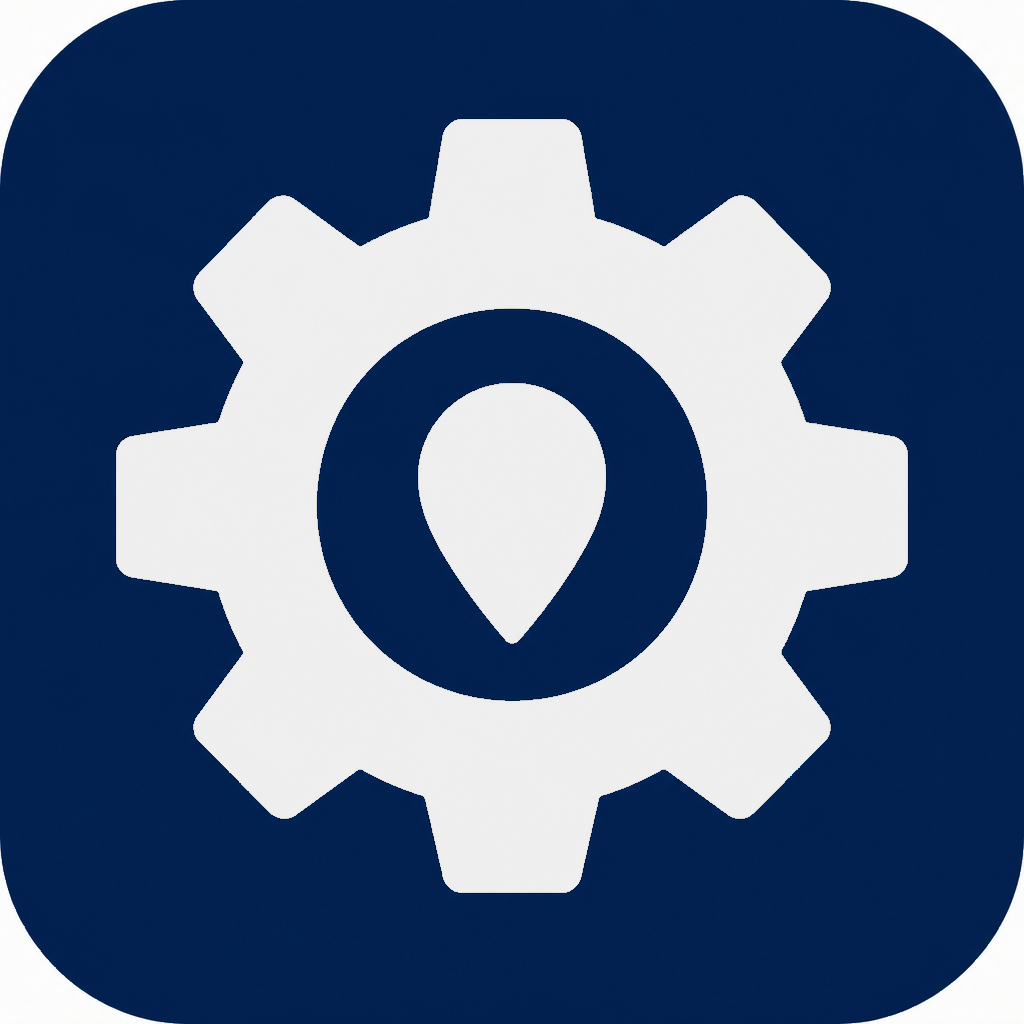
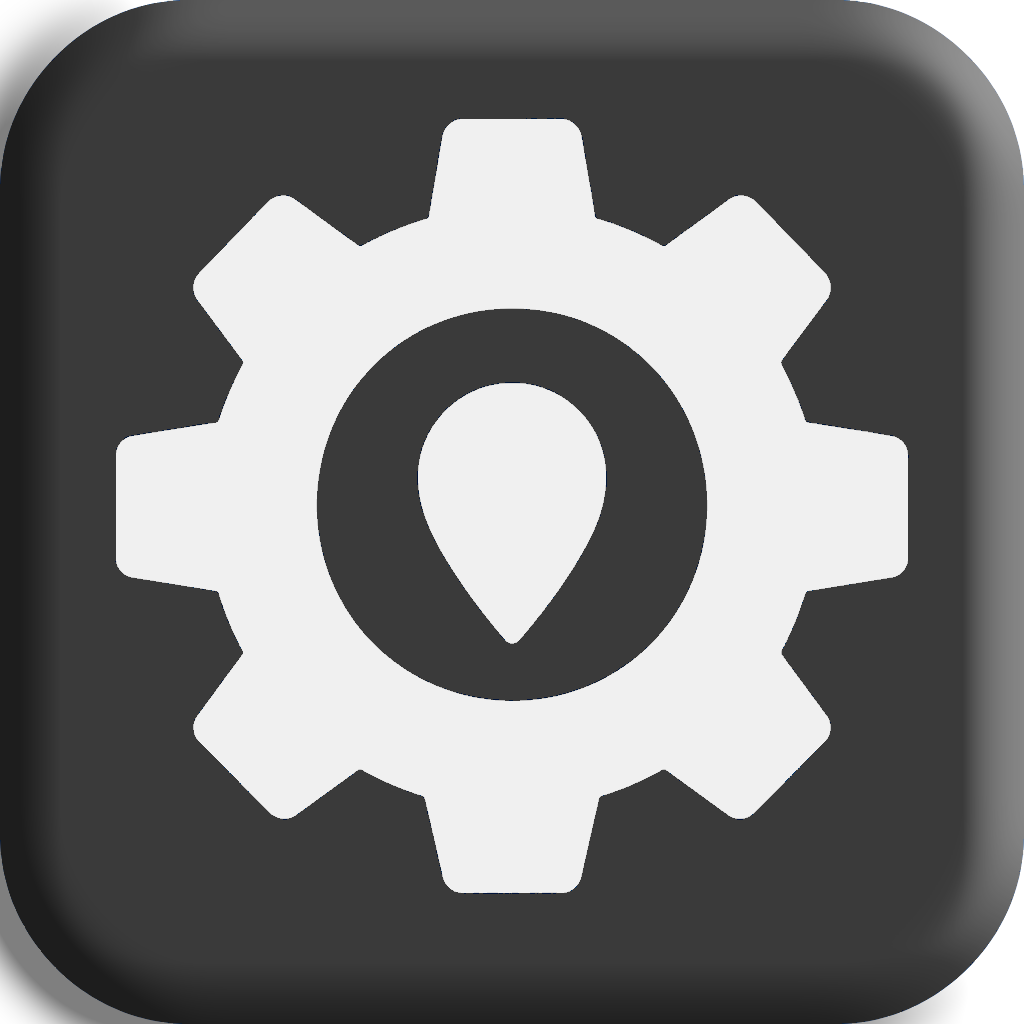
Added map layers button and dist/heading buttons.

diff --git a/sat_planner/app_core.py b/sat_planner/app_core.py
@@ -751,22 +751,22 @@ class SurveyPlanApp(BasemapMixin, GeoTIFFMixin, PlottingMixin, ReferenceMixin, S
         icon_size = self._map_overlay_icon_size
         btn_style = "QPushButton { border: none; background: transparent; padding: 0px; }"
 
-        map_options_off = self._media_path("options_off.png")
-        map_options_on = self._media_path("options_on.png")
-        self._map_options_icon_off = QIcon(map_options_off) if os.path.exists(map_options_off) else QIcon()
-        self._map_options_icon_on = QIcon(map_options_on) if os.path.exists(map_options_on) else QIcon()
+        map_options_off = self._media_path("layers_t_off.png")
+        map_options_on = self._media_path("layers_t_on.png")
+        self._map_options_icon_off = QIcon(map_options_off) if os.path.exists(map_options_on) else QIcon()
+        self._map_options_icon_on = QIcon(map_options_on) if os.path.exists(map_options_off) else QIcon()
 
         self.map_options_btn = QPushButton(self.plot_frame)
         self.map_options_btn.setFlat(True)
         self.map_options_btn.setFixedSize(icon_size, icon_size)
         self.map_options_btn.setIconSize(QSize(icon_size, icon_size))
-        self.map_options_btn.setToolTip("Map Options")
+        self.map_options_btn.setToolTip("Layer Options")
         self.map_options_btn.setStyleSheet(btn_style)
         self.map_options_btn.clicked.connect(self._toggle_map_options_dialog)
         self._set_map_options_icon_active(False)
 
-        measure_off = self._media_path("dh_t_off.png")
-        measure_on = self._media_path("dh_t_on.png")
+        measure_off = self._media_path("dht_t_grey_off.png")
+        measure_on = self._media_path("dht_t_grey_on.png")
         self._measurement_icon_off = QIcon(measure_off) if os.path.exists(measure_off) else QIcon()
         self._measurement_icon_on = QIcon(measure_on) if os.path.exists(measure_on) else QIcon()
 
@@ -1156,9 +1156,15 @@ class SurveyPlanApp(BasemapMixin, GeoTIFFMixin, PlottingMixin, ReferenceMixin, S
         self.slope_overlay_min_entries = []
         self.slope_overlay_max_entries = []
         self.slope_overlay_color_btns = []
+        slope_range_tooltip = (
+            "Enter min and max slope in degrees. "
+            "Use '-' for min and/or max to leave this range undefined (it will not be shown)."
+        )
         for band_idx in range(len(DEFAULT_SLOPE_OVERLAY_BANDS)):
             min_entry = QLineEdit("-")
             max_entry = QLineEdit("-")
+            min_entry.setToolTip(slope_range_tooltip)
+            max_entry.setToolTip(slope_range_tooltip)
             color_btn = QPushButton("")
             color_btn.setFixedSize(22, 22)
             color_btn.setToolTip(f"Slope overlay range {band_idx + 1} color")

diff --git a/sat_planner/mixins/config_mixin.py b/sat_planner/mixins/config_mixin.py
@@ -529,13 +529,31 @@ class ConfigMixin:
                         self.slope_overlay_opacity = 40
             if hasattr(self, "_sync_slope_overlay_legacy_vars"):
                 self._sync_slope_overlay_legacy_vars()
-            if hasattr(self, "_sync_slope_overlay_opacity_widget"):
-                self._sync_slope_overlay_opacity_widget()
         except Exception:
             self.slope_overlay_bands = self._default_slope_overlay_bands()
             self.slope_overlay_opacity = 40
             if hasattr(self, "_sync_slope_overlay_legacy_vars"):
                 self._sync_slope_overlay_legacy_vars()
+        if hasattr(self, "_sync_slope_overlay_opacity_widget"):
+            self._sync_slope_overlay_opacity_widget()
+
+    def _save_slope_overlay_opacity(self):
+        """Persist slope overlay opacity to the session config file."""
+        try:
+            config = {}
+            if os.path.exists(self.CONFIG_FILENAME):
+                with open(self.CONFIG_FILENAME, "r") as f:
+                    config = json.load(f)
+            try:
+                opacity = max(0, min(100, int(getattr(self, "slope_overlay_opacity", 40))))
+            except (TypeError, ValueError):
+                opacity = 40
+            self.slope_overlay_opacity = opacity
+            config["slope_overlay_opacity"] = opacity
+            with open(self.CONFIG_FILENAME, "w") as f:
+                json.dump(config, f, indent=2)
+        except Exception:
+            pass
 
     def _save_slope_overlay_bands(self):
         try:
@@ -559,7 +577,8 @@ class ConfigMixin:
             with open(self.CONFIG_FILENAME, "w") as f:
                 json.dump(config, f, indent=2)
         except Exception:
-            pass
+            # Still try to persist opacity even if band save fails
+            self._save_slope_overlay_opacity()
 
     def _add_slope_overlay_bands_to_params(self, params):
         if isinstance(params, dict):

diff --git a/sat_planner/mixins/map_interaction_mixin.py b/sat_planner/mixins/map_interaction_mixin.py
@@ -6,6 +6,7 @@ import traceback
 
 import numpy as np
 from PyQt6.QtCore import Qt, QTimer
+from PyQt6.QtGui import QColor, QCursor, QPainter, QPen, QPixmap
 
 from sat_planner.constants import GEOSPATIAL_LIBS_AVAILABLE, pyproj, rowcol
 from sat_planner.utils_geo import decimal_degrees_to_ddm
@@ -142,6 +143,27 @@ class MapInteractionMixin:
             [start_lon, end_lon], [start_lat, end_lat], **line_kwargs
         )
 
+    def _measurement_cursor(self):
+        """Return a thick orange cross cursor centered on its hotspot."""
+        cursor = getattr(self, "_measurement_cross_cursor", None)
+        if cursor is not None:
+            return cursor
+
+        size = 32
+        center = size // 2
+        pixmap = QPixmap(size, size)
+        pixmap.fill(Qt.GlobalColor.transparent)
+
+        painter = QPainter(pixmap)
+        painter.setRenderHint(QPainter.RenderHint.Antialiasing, False)
+        painter.setPen(QPen(QColor(255, 165, 0), 3))
+        painter.drawLine(center, 2, center, size - 3)
+        painter.drawLine(2, center, size - 3, center)
+        painter.end()
+
+        self._measurement_cross_cursor = QCursor(pixmap, center, center)
+        return self._measurement_cross_cursor
+
     def _toggle_measurement_tool_mode(self):
         """Enable/disable interactive map measurement mode."""
         self.measurement_tool_mode = not bool(getattr(self, "measurement_tool_mode", False))
@@ -151,7 +173,7 @@ class MapInteractionMixin:
             self.measurement_start_point = None
             self.measurement_end_point = None
             self._clear_measurement_line_overlay()
-            self.canvas_widget.setCursor(Qt.CursorShape.CrossCursor)
+            self.canvas_widget.setCursor(self._measurement_cursor())
         else:
             self.measurement_start_point = None
             self.measurement_end_point = None

diff --git a/sat_planner/map_options_dialog.py b/sat_planner/map_options_dialog.py
@@ -43,7 +43,7 @@ class MapOptionsDialog(QDialog):
         layout.setContentsMargins(10, 10, 10, 10)
         layout.setSpacing(8)
 
-        layers_group = QGroupBox("Map Layers")
+        layers_group = QGroupBox("Map Overlay Options")
         layers_layout = QVBoxLayout(layers_group)
         layers_layout.setSpacing(6)
         layers_layout.addWidget(imagery_basemap_checkbox)
@@ -65,7 +65,7 @@ class MapOptionsDialog(QDialog):
         layers_layout.addWidget(add_shapefile_btn)
         layout.addWidget(layers_group)
 
-        geotiff_group = QGroupBox("GeoTIFF Overlays")
+        geotiff_group = QGroupBox("GeoTIFF Overlay Options")
         geotiff_layout = QVBoxLayout(geotiff_group)
         geotiff_layout.setSpacing(6)
 

diff --git a/sat_planner/mixins/geotiff_mixin.py b/sat_planner/mixins/geotiff_mixin.py
@@ -2266,7 +2266,9 @@ class GeoTIFFMixin:
         self.slope_overlay_opacity = opacity
         if hasattr(self, "slope_overlay_opacity_label"):
             self.slope_overlay_opacity_label.setText(f"Opacity: {opacity}%")
-        if hasattr(self, "_save_slope_overlay_bands"):
+        if hasattr(self, "_save_slope_overlay_opacity"):
+            self._save_slope_overlay_opacity()
+        elif hasattr(self, "_save_slope_overlay_bands"):
             self._save_slope_overlay_bands()
         if not getattr(self, "show_slope_overlay_var", False):
             return
